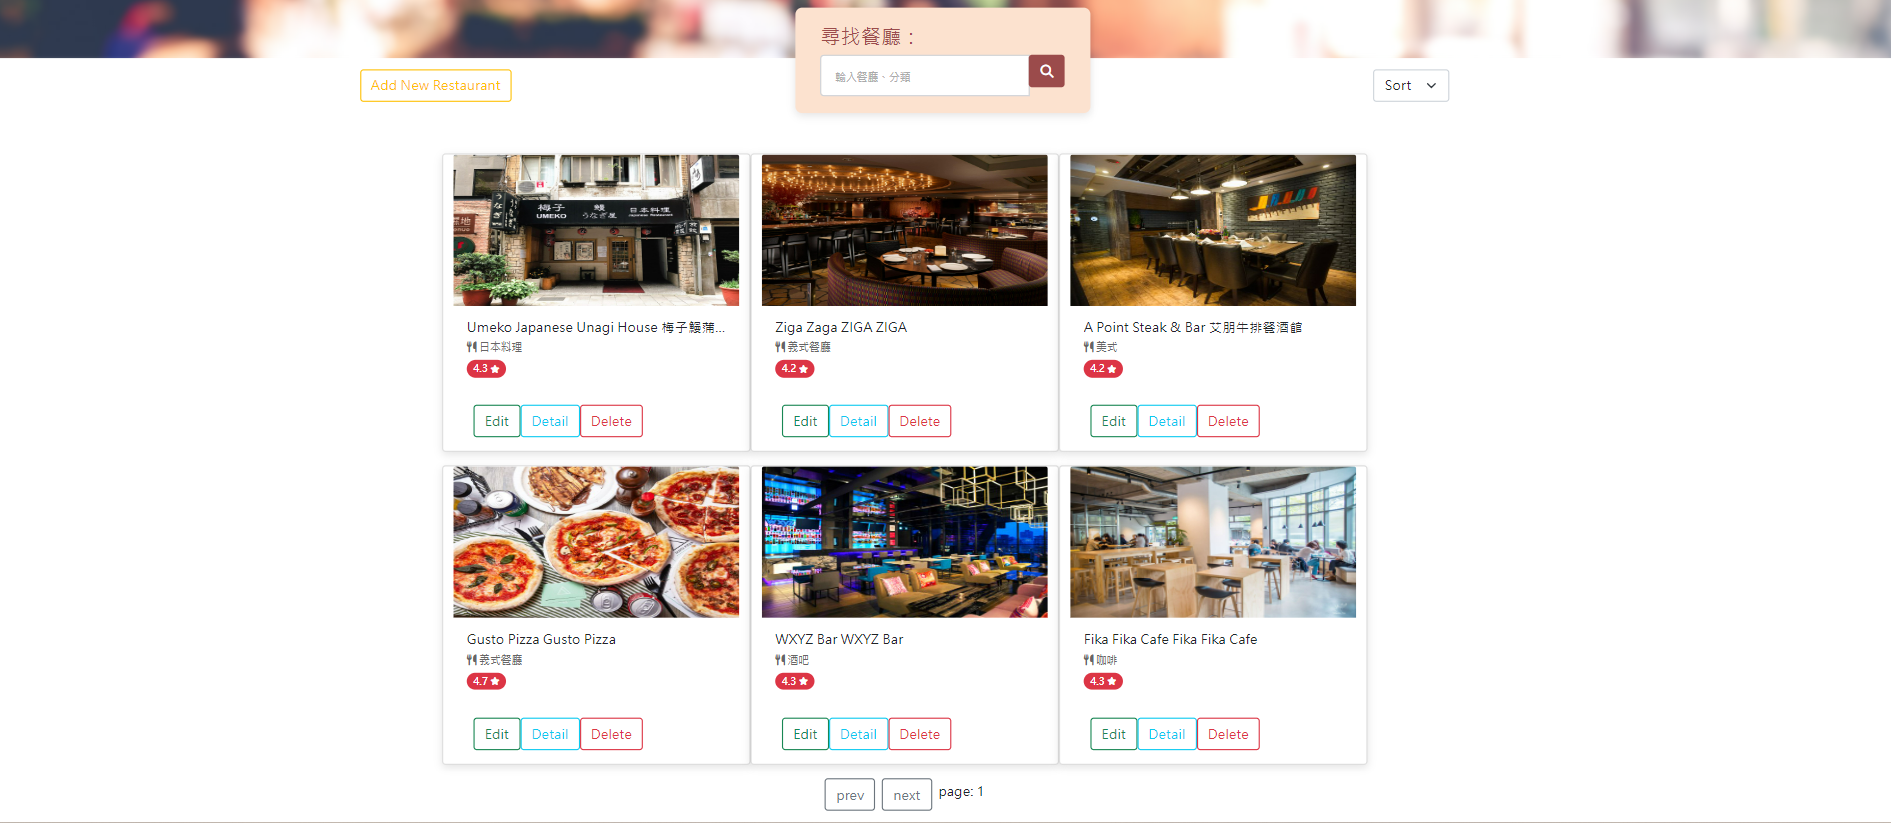
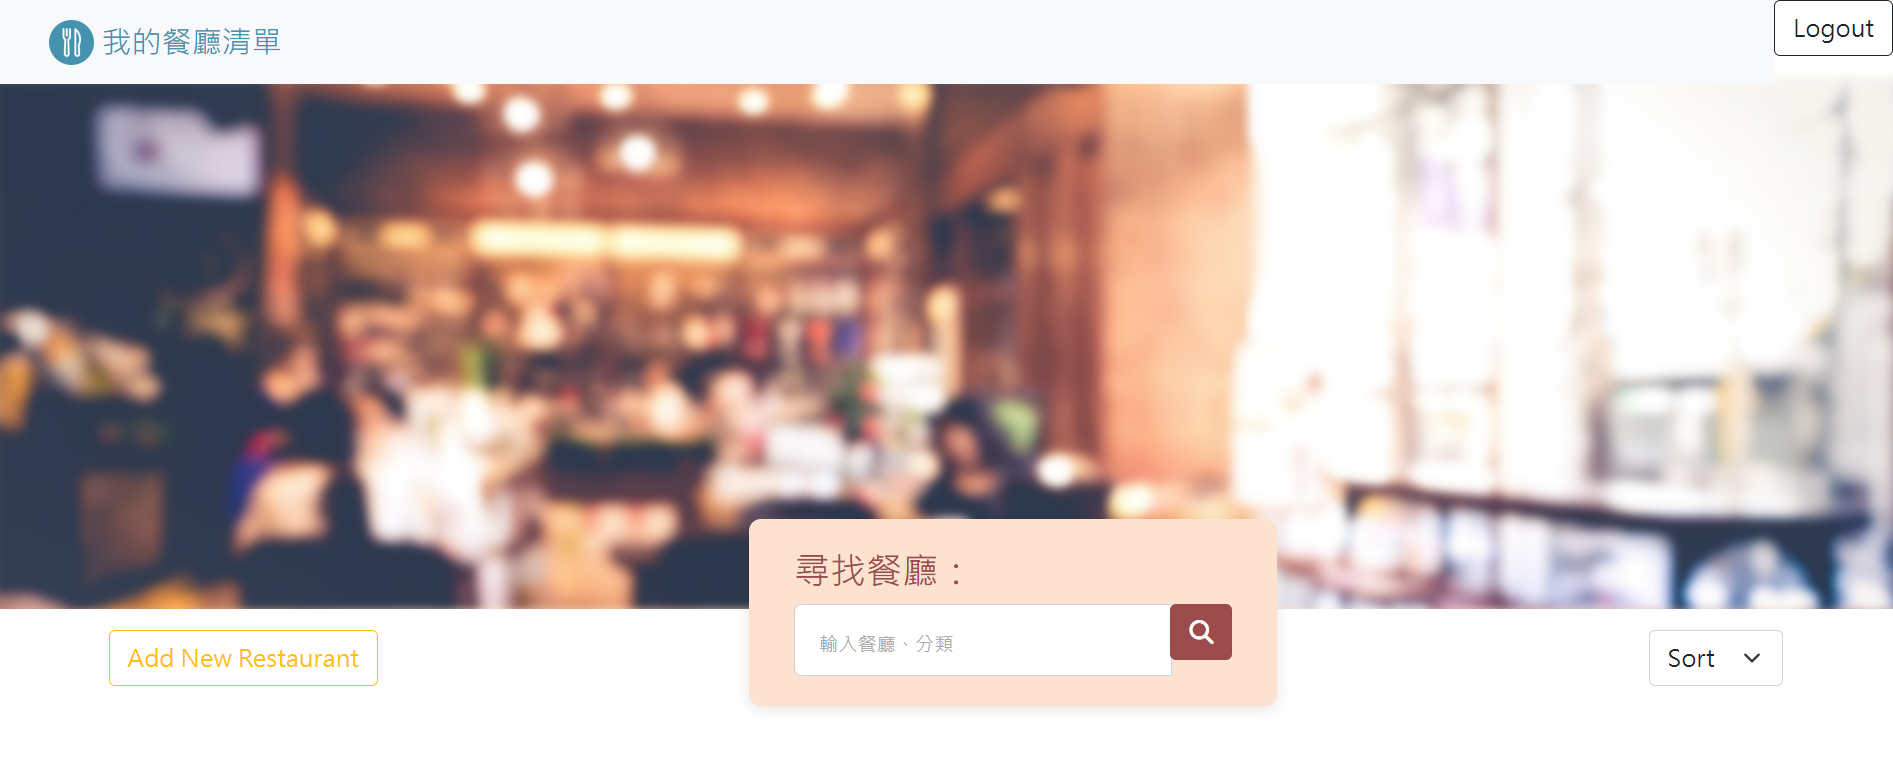
update README

diff --git a/routes/root.js b/routes/root.js
@@ -26,6 +26,7 @@ router.post('/logout', (req, res) => {
       next(error)
     }
 
+    req.flash('success', '登出成功！')
     return res.redirect('/login')
   })
 })

diff --git a/README.md b/README.md
@@ -4,15 +4,18 @@ Create an application server using Node.js with Express and a database server us
 
 - Dev C4 M1：Connect to the MySQL database and add CRUD functionality.
 - Dev C4 M2：Refactor routing, add prompt messages and implement pagination.
+- Dev C4 M3：Add registration, login, and authentication functionality.
 
 ## Features
 
+- Users can register/login using their account and password or their Facebook account.
 - Users can retrieve information about all restaurants from the database.
 - Users can add, edit, and delete restaurant data.
 - Users can view detailed information about a specific restaurant.
 - Users can find a specific restaurant by searching for its name or category.
 - Users can sort restaurants using a dropdown box format.
   ![image](https://github.com/pinjunpan/restaurant-list/blob/main/public/images/main.png)
+  ![image](https://github.com/pinjunpan/restaurant-list/blob/main/public/images/list.png)
 
 ## Getting Started
 
@@ -28,6 +31,11 @@ Create an application server using Node.js with Express and a database server us
 - sequelize v6.30.0
 - sequelize-cli v6.6.0
 - method-override v3.0.0
+- passport v0.6.0
+- passport-local ^1.0.0
+- bcryptjs ^2.4.3
+- dotenv ^16.0.3
+- passport-facebook ^3.0.0
 
 ### Installing
 
@@ -50,13 +58,19 @@ npm install
 npm install -g nodemon
 ```
 
-4. Run the project
+4. Set environment variable
+
+```
+export NODE_ENV=development
+```
+
+5. Run the project
 
 ```
 npm run dev
 ```
 
-5. Enter the URL in the browser
+6. Enter the URL in the browser
 
 ```
 http://localhost:3000
